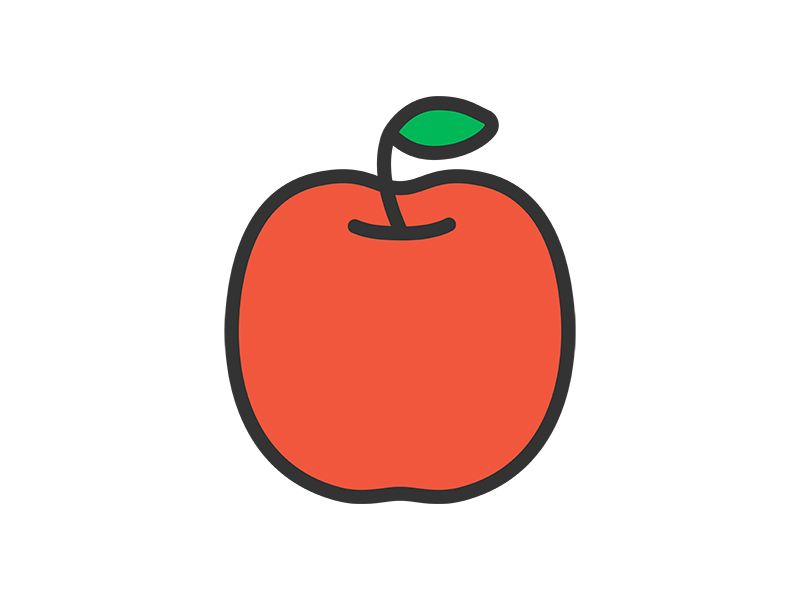
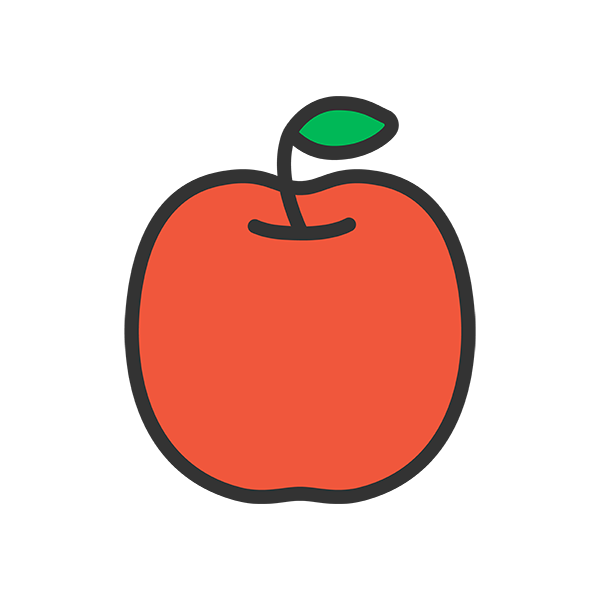
ItemSlotUI描画完了（位置は調整必要）

Changed region(s): [[0.18, 0.15, 0.81, 0.84]]

diff --git a/item.h b/item.h
@@ -128,3 +128,5 @@ void ApplyConsumableItemEffect(int itemID);
 void UseCurrentItem();
 void SwitchToPreviousItem();
 void SwitchToNextItem();
+
+ID3D11ShaderResourceView* GetItemTexture(int itemID);
